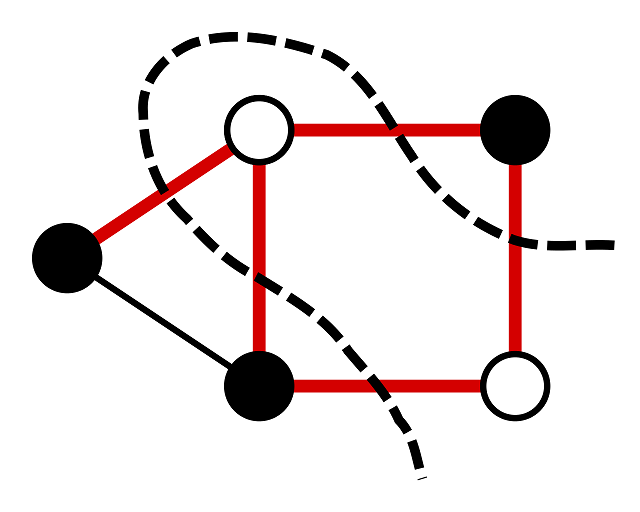
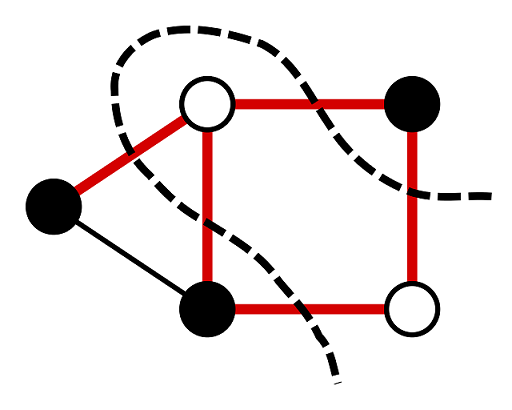
edited README.md

diff --git a/README.md b/README.md
@@ -4,5 +4,7 @@
 
 The aim of MaxCut is to maximize the number of edges (yellow lines) in a graph that are “cut” by a given partition of the vertices (blue circles) into two sets (see figure below).
 
-![maximum cut example](https://raw.githubusercontent.com/andreabasiliorava/QAOA_MaxCut/master/images/Max-cut.svg.png)
+![maximum cut example](./images/Max-cut_example.svg.png)
+
+
 
